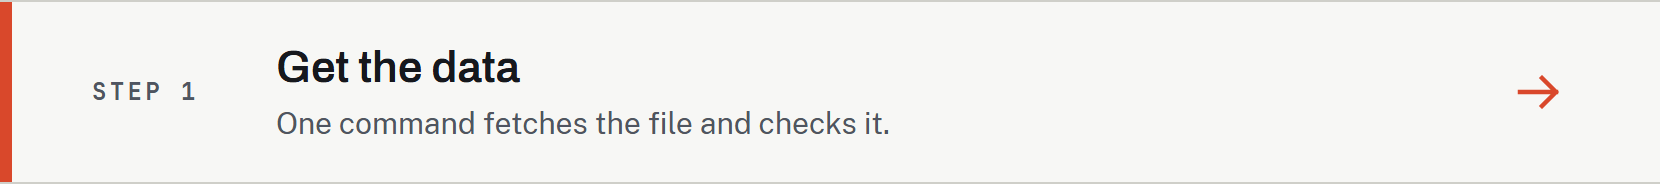
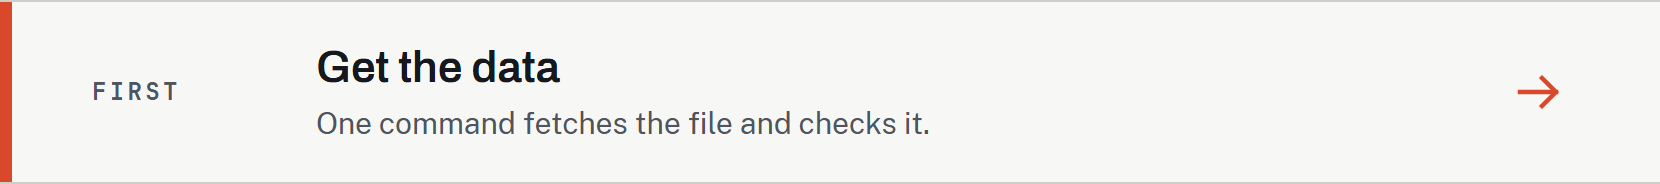
Landing page: the three cards are first, next, and a shortcut, not steps one to three
Claude-Session: https://claude.ai/code/session_017hq6XKDhjb5AwMA5DJM48s

Changed region(s): [[0.1536, 0.5978, 0.5837, 0.7337], [0.1536, 0.2717, 0.338, 0.462], [0.0307, 0.4348, 0.1229, 0.5435]]

diff --git a/tools/casebook/landing.css b/tools/casebook/landing.css
@@ -19,7 +19,7 @@
 
 .cb-step { position: relative; height: 92px; display: flex; align-items: center; gap: 28px; padding: 0 40px 0 46px; background: var(--sheet); border-top: 1px solid var(--rule); border-bottom: 1px solid var(--rule); }
 .cb-step .cb-edge { position: absolute; left: 0; top: 0; bottom: 0; width: 6px; background: var(--signal); }
-.cb-step .cb-label { flex: none; width: 64px; font: 700 12px/16px var(--mono); letter-spacing: .14em; color: var(--slate); }
+.cb-step .cb-label { flex: none; width: 84px; font: 700 12px/16px var(--mono); letter-spacing: .14em; color: var(--slate); }
 .cb-step .cb-what { flex: 1; min-width: 0; display: flex; flex-direction: column; gap: 4px; }
 .cb-step .cb-title { font: 600 22px/28px var(--display); color: var(--ink); white-space: nowrap; }
 .cb-step .cb-line { font: 400 15px/20px var(--sans); color: var(--slate); white-space: nowrap; }

diff --git a/tools/casebook/landing.py b/tools/casebook/landing.py
@@ -44,9 +44,9 @@ LEARN = {
     7: "Open a sealed holdout once, calibrate, explain the score, and state the limits",
 }
 STEPS = [
-    ("STEP 1", "Get the data", "One command fetches the file and checks it.", "data/README.md"),
-    ("STEP 2", "Chapter 1: The Panel", "What exactly is in this file?", "notebooks/01_the_panel.ipynb"),
-    ("STEP 3", "Chapter 7: The Verdict", "What does the sealed holdout say?", "notebooks/07_the_verdict.ipynb"),
+    ("FIRST", "Get the data", "One command fetches the file and checks it.", "data/README.md"),
+    ("NEXT", "Chapter 1: The Panel", "What exactly is in this file?", "notebooks/01_the_panel.ipynb"),
+    ("SHORTCUT", "Chapter 7: The Verdict", "Only here for the result? The holdout, opened once.", "notebooks/07_the_verdict.ipynb"),
 ]  # fmt: skip
 ARROW = (
     '<svg class="cb-go" width="40" height="40" viewBox="0 0 40 40">'

diff --git a/README.md b/README.md
@@ -29,9 +29,9 @@ The reader is assumed to know Python and basic finance.
 
 ## Start Here
 
-<a href="data/README.md"><img src="assets/readme/landing/step1.png" width="830" alt="Step 1. Get the data. One command fetches the file and checks it."></a>
-<a href="notebooks/01_the_panel.ipynb"><img src="assets/readme/landing/step2.png" width="830" alt="Step 2. Chapter 1: The Panel. What exactly is in this file?"></a>
-<a href="notebooks/07_the_verdict.ipynb"><img src="assets/readme/landing/step3.png" width="830" alt="Step 3. Chapter 7: The Verdict. What does the sealed holdout say?"></a>
+<a href="data/README.md"><img src="assets/readme/landing/step1.png" width="830" alt="First: get the data. One command fetches the file and checks it."></a>
+<a href="notebooks/01_the_panel.ipynb"><img src="assets/readme/landing/step2.png" width="830" alt="Next: Chapter 1, The Panel. What exactly is in this file?"></a>
+<a href="notebooks/07_the_verdict.ipynb"><img src="assets/readme/landing/step3.png" width="830" alt="Shortcut: Chapter 7, The Verdict. Only here for the result? The holdout, opened once."></a>
 
 ## The Seven Chapters
 
